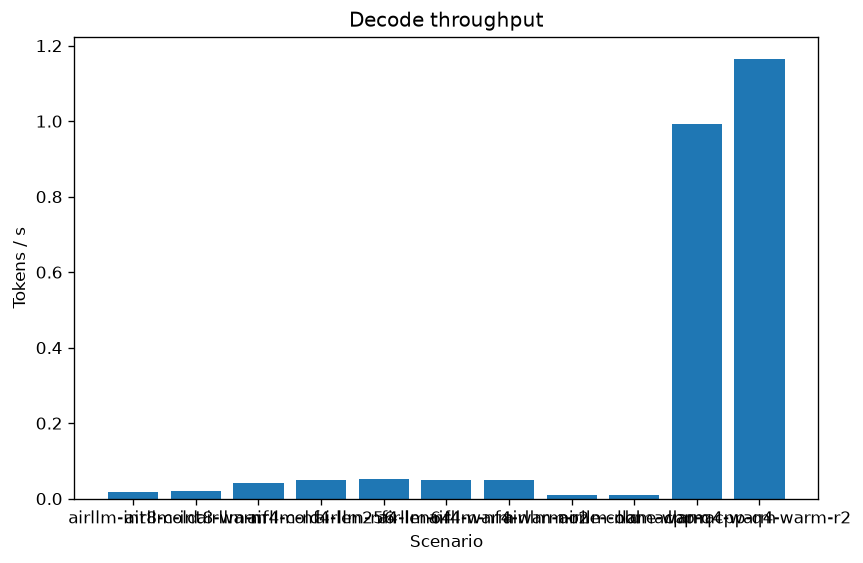
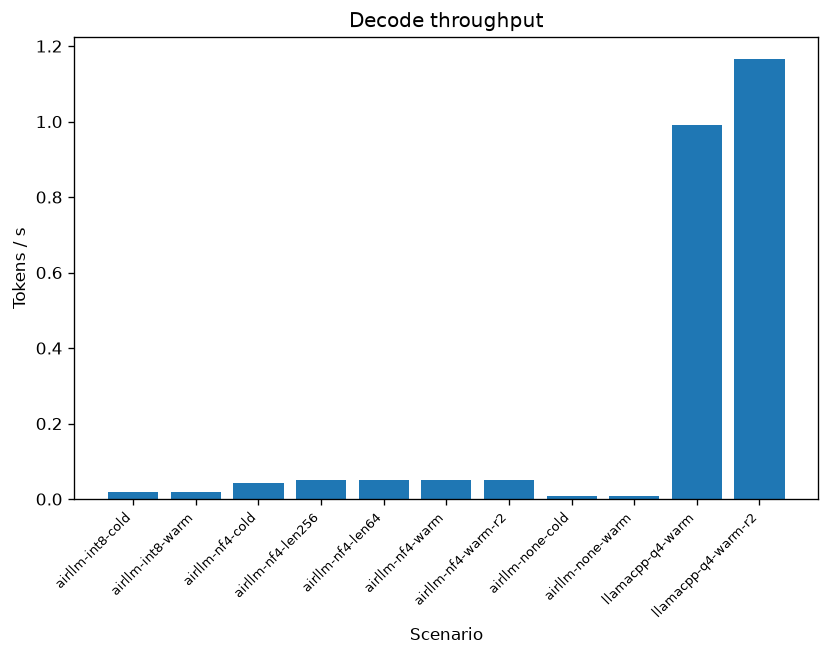
fix: rotate throughput x-axis labels so they don't overlap (#33)
The decode-throughput bar chart plots one bar per scenario, labelled with the
full exp_id. With 11 bars the horizontal labels collided into an unreadable
smear above the axis. Angle them 45° (right-aligned, fontsize 8) — bbox_inches
="tight" already keeps them from clipping. Only figures/throughput.png changes.

RED→GREEN: new test asserts the x-tick labels are rotated (non-zero). Spotted in
the rendered README §3.

Changed region(s): [[0.0, 0.0, 0.994, 0.9964], [0.6325, 0.8153, 0.6627, 0.8455], [0.1807, 0.8153, 0.2108, 0.8455]]

diff --git a/tests/unit/test_plotting/test_throughput_quality.py b/tests/unit/test_plotting/test_throughput_quality.py
@@ -10,6 +10,17 @@ def test_throughput_fig_has_one_bar_per_scenario() -> None:
     assert len(fig.axes[0].patches) == 3
 
 
+def test_throughput_xtick_labels_are_rotated_so_they_dont_overlap() -> None:
+    # The x labels are long exp_ids and there are many of them — horizontal text
+    # collides into an unreadable smear. They must be angled.
+    fig = throughput_fig(
+        {"airllm-int8-cold": 0.02, "airllm-int8-warm": 0.02, "llamacpp-q4-warm": 0.99}
+    )
+    rotations = [label.get_rotation() for label in fig.axes[0].get_xticklabels()]
+    assert rotations
+    assert all(r != 0 for r in rotations)
+
+
 def test_perplexity_fig_has_one_bar_per_quant() -> None:
     fig = perplexity_fig({"4-bit": 39.9, "8-bit": 24.2, "fp16": 23.7})
     assert len(fig.axes[0].patches) == 3

diff --git a/src/airllm_bench/plotting/throughput_quality.py b/src/airllm_bench/plotting/throughput_quality.py
@@ -18,6 +18,10 @@ def throughput_fig(tput_by_label: Mapping[str, float]) -> Figure:
     fig, ax = new_figure("Decode throughput", "Scenario", "Tokens / s")
     labels = list(tput_by_label)
     ax.bar(labels, [tput_by_label[k] for k in labels])
+    # The scenario exp_ids are long and numerous — angle them so they don't collide
+    # into an unreadable smear above the axis. (set_xticks first to pin the locator.)
+    ax.set_xticks(range(len(labels)))
+    ax.set_xticklabels(labels, rotation=45, ha="right", fontsize=8)
     return fig
 
 
